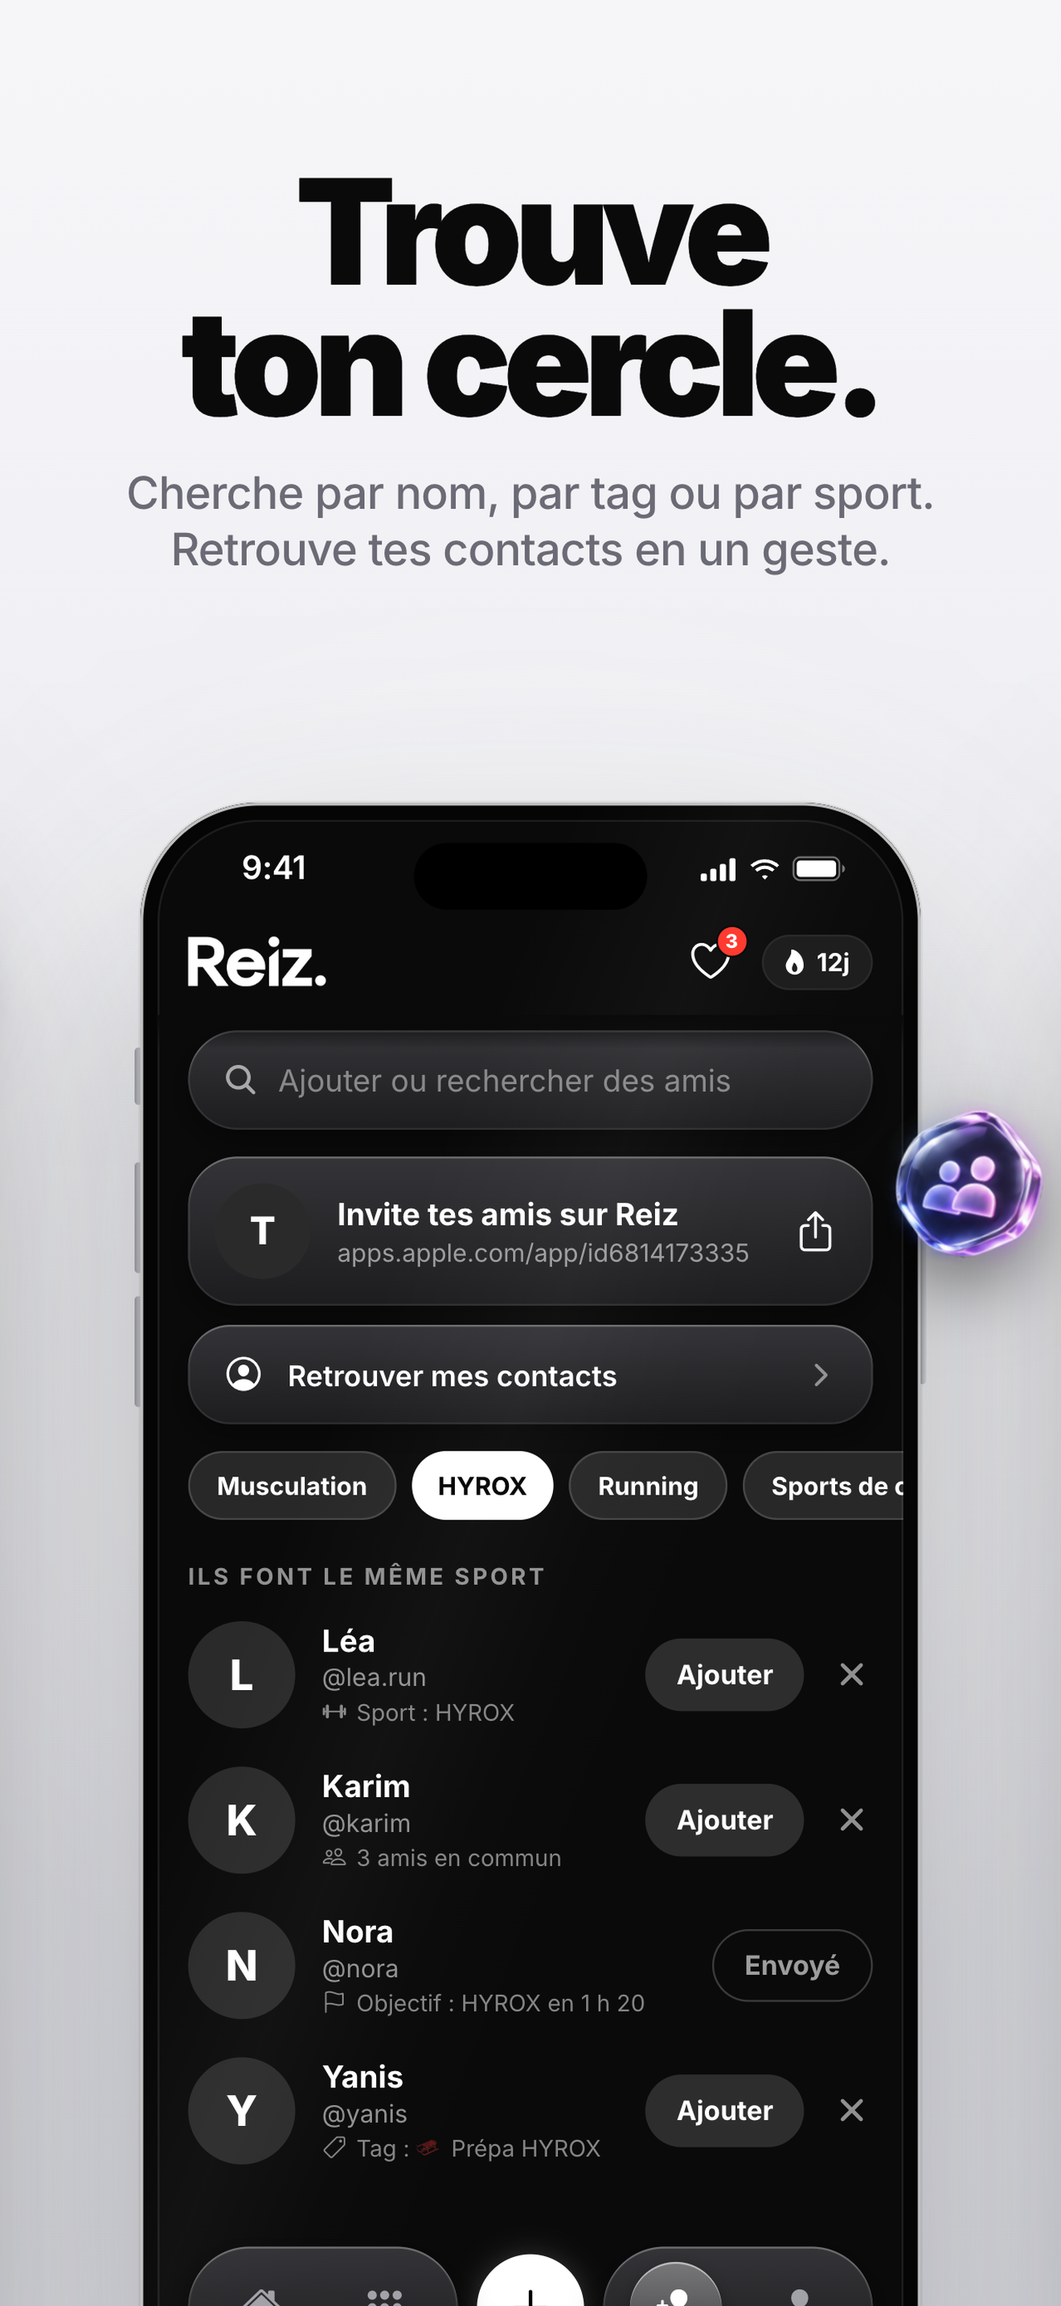
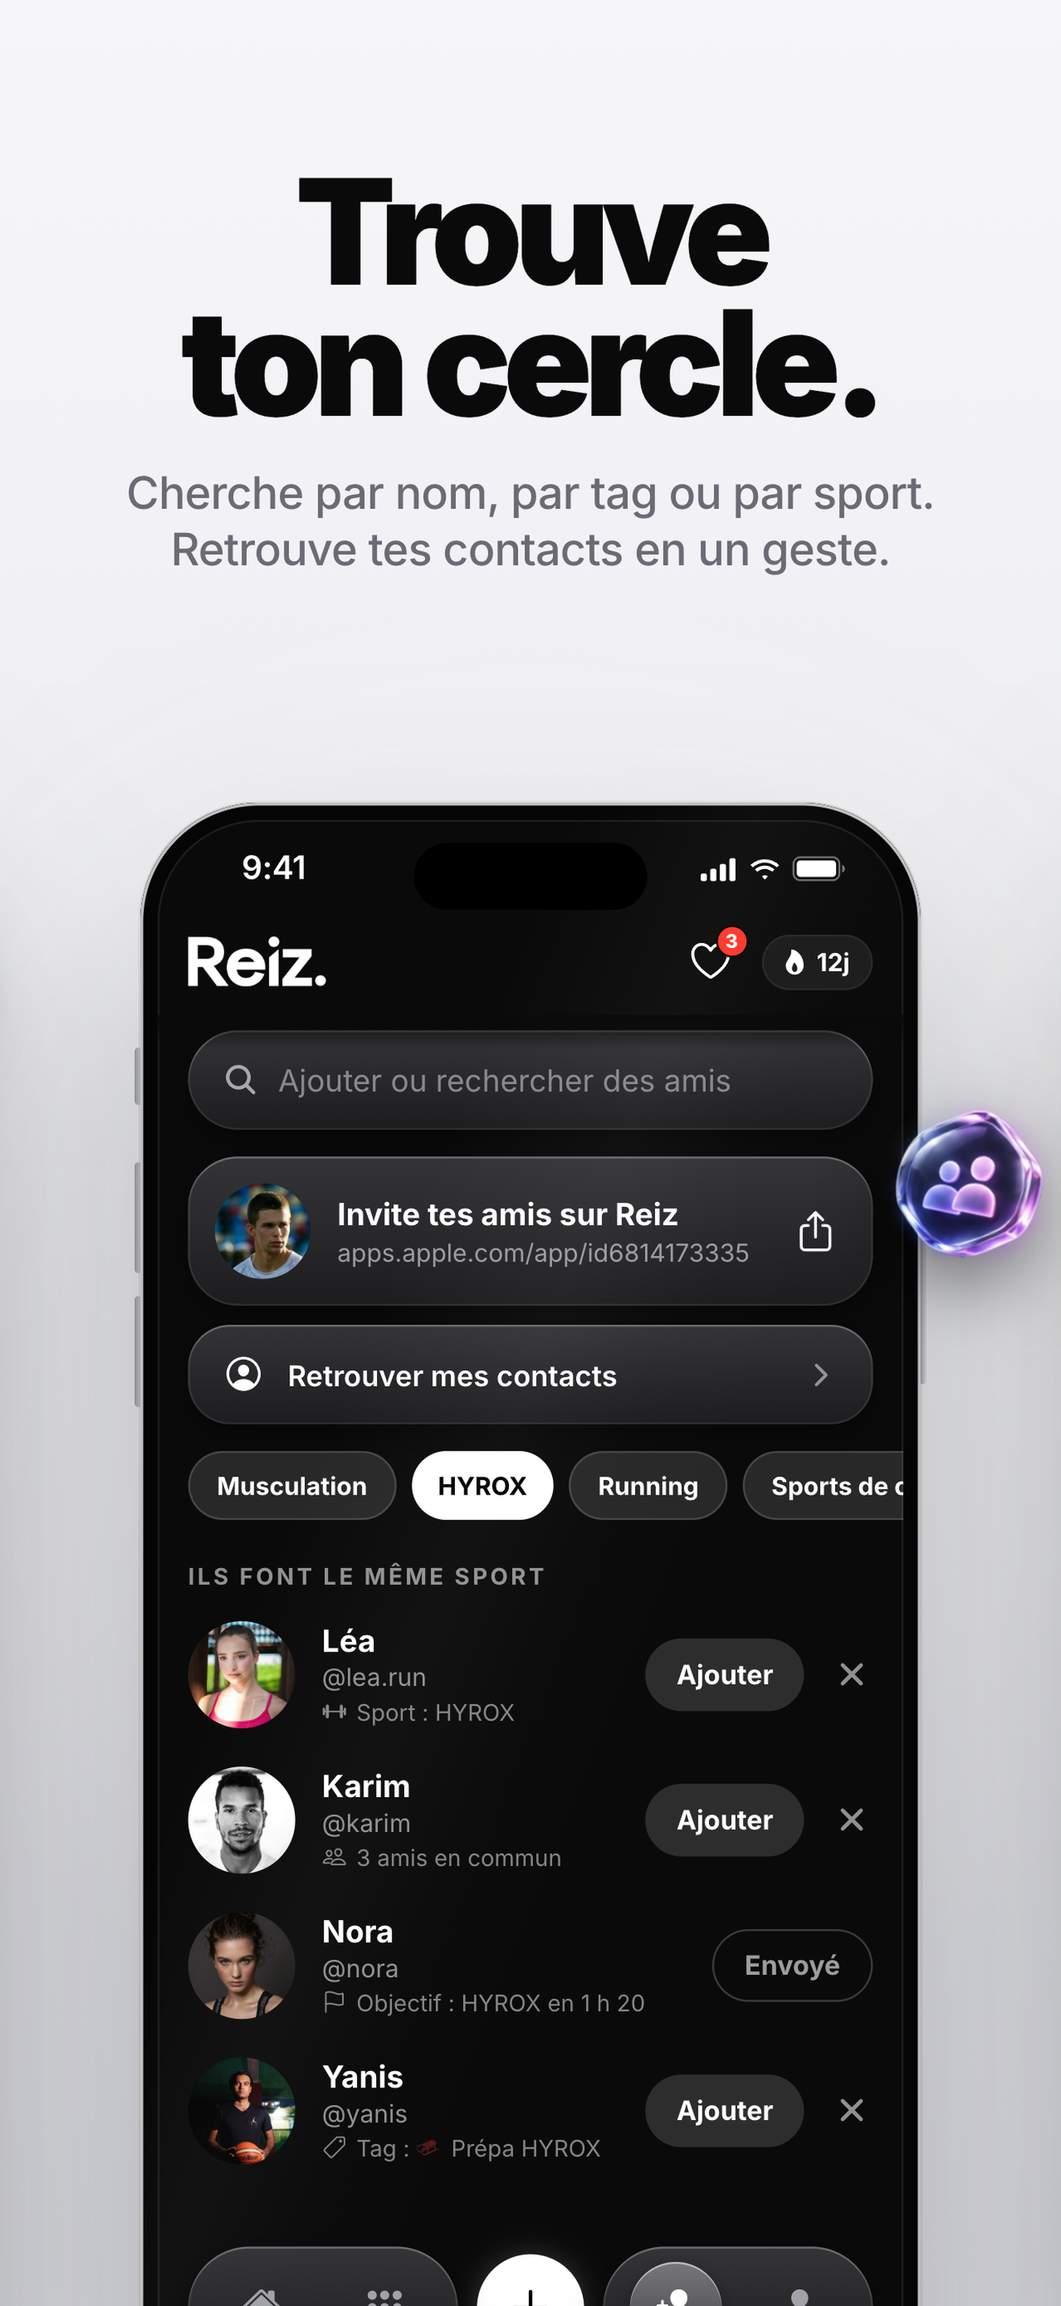
Visuels App Store v3 : photos de profil et photos HYROX/running Unsplash

Changed region(s): [[0.1553, 0.6827, 0.2795, 0.962], [0.1864, 0.4965, 0.3106, 0.5586]]

diff --git a/design/store/bande3.html b/design/store/bande3.html
@@ -317,16 +317,19 @@ const navBar = active => {
   const icons = arr => arr.map(k => `<span class="ion${k === active ? ' on' : ''}">${String.fromCodePoint(GL[k])}</span>`).join('');
   return `<div class="nav"><div class="npill glass">${bub(L)}${icons(L)}</div><div class="nplus">${I('add')}</div><div class="npill glass">${bub(R)}${icons(R)}</div></div>`;
 };
-const av = (ini, extra = '') => `<div class="av" style="${extra}">${ini}</div>`;
+const PF = { N: 'nathan', S: 'sarah', H: 'hugo', T: 'theo', I: 'ines', M: 'mael', L: 'lea', K: 'karim', No: 'nora', Y: 'yanis' };
+// Photos de profil Unsplash (licence libre), voir assets/unsplash/CREDITS.md
+const pic = k => PF[k] ? `background:url(assets/unsplash/av-${PF[k]}.jpg) center/cover;color:transparent;` : '';
+const av = (ini, extra = '') => `<div class="av" style="${pic(ini)}${extra}">${ini}</div>`;
 
 /* ---------- Écrans ---------- */
 function feed(o) {
   const faces = o.faces || [];
-  const stack = faces.length ? `<div class="stack">${faces.slice(0, 4).map(([i, e], k) => `<div class="si" style="margin-left:${k ? -12 : 0}px;z-index:${4 - k}"><div class="sa">${i}</div><span class="se">${e}</span></div>`).join('')}${o.more ? `<div class="si" style="margin-left:-12px"><div class="sa more">+${o.more}</div></div>` : ''}</div>` : '';
+  const stack = faces.length ? `<div class="stack">${faces.slice(0, 4).map(([i, e], k) => `<div class="si" style="margin-left:${k ? -12 : 0}px;z-index:${4 - k}"><div class="sa" style="${pic(i)}">${i}</div><span class="se">${e}</span></div>`).join('')}${o.more ? `<div class="si" style="margin-left:-12px"><div class="sa more">+${o.more}</div></div>` : ''}</div>` : '';
   const bottom = o.quick
     ? `<div class="quick">${['🔥', '💪', '👏', '😮', '😂', '❤'].map(e => `<span class="qi${e === o.qon ? ' on' : ''}">${e}</span>`).join('')}<span class="qi">${I('add')}</span></div>`
     : `<div class="bot">${stack}<div style="flex:1"></div><div class="react">${I('happy')}</div></div>`;
-  const duo = o.duo ? `<div class="duorow${o.duo.ok ? ' ok' : ''}"><span style="display:flex">${o.duo.ini.map(i => `<span class="da">${i}</span>`).join('')}</span><span class="tx">${o.duo.ok ? '<b>✓ Duo validé</b> avec ' : 'avec '}<b>${o.duo.names}</b></span></div>` : '';
+  const duo = o.duo ? `<div class="duorow${o.duo.ok ? ' ok' : ''}"><span style="display:flex">${o.duo.ini.map(i => `<span class="da" style="${pic(i)}">${i}</span>`).join('')}</span><span class="tx">${o.duo.ok ? '<b>✓ Duo validé</b> avec ' : 'avec '}<b>${o.duo.names}</b></span></div>` : '';
   return `<div class="scr">${statusBar()}${header()}<div class="body"><div class="fade"></div>
   <div class="fcard" style="margin-top:${o.top ?? 8}px">
     <div class="brh">${av(o.ini)}<div class="meta"><div class="n">${o.name}</div><div class="sub">${o.sub}</div>${duo}</div><span class="ion dots">${String.fromCodePoint(GL.dots)}</span></div>
@@ -372,7 +375,7 @@ function post(photo = PH.gym, pos = '50% 62%') {
      <div class="poc"><div class="e">🏃</div><div class="t">Courir 50 km</div></div>
     </div>
     <div class="pl m">PROGRESSION</div>
-    <div class="pw2"><div class="pbtn">${I('remove')}</div><div class="pc"><div class="big">190<span class="u"> kg</span></div><div class="val">sur 200 kg</div><div class="sl"><div class="tr"><div class="fi" style="width:95%"></div></div><div class="th" style="left:calc(95% - 22px * .95)"></div></div></div><div class="pbtn">${I('add')}</div></div>
+    <div class="pw2"><div class="pbtn">${I('remove')}</div><div class="pc"><div class="big">11<span class="u"> séances</span></div><div class="val">sur 16 séances</div><div class="sl"><div class="tr"><div class="fi" style="width:69%"></div></div><div class="th" style="left:calc(69% - 22px * .69)"></div></div></div><div class="pbtn">${I('add')}</div></div>
    </div></div>
   <div class="cta"><div class="b">Publier</div></div></div>`;
 }
@@ -501,10 +504,12 @@ function activityScreen() {
   </div></div>`;
 }
 
+const U = { sled: 'assets/unsplash/post-sled.jpg', fentes: 'assets/unsplash/post-fentes.jpg', runF: 'assets/unsplash/post-run-femme.jpg', runH: 'assets/unsplash/post-run-homme.jpg', bgSunset: 'assets/unsplash/bg-run-sunset.jpg', bgBlue: 'assets/unsplash/bg-run-blue.jpg' };
+const bgCover = (f, pos) => `<div style="position:absolute;inset:0;background:url(${f}) ${pos}/cover"></div>`;
 /* ---------- v3 (22/10/2026) : écrans de la 1.0.1 (fond noir, verre, accueil par discipline, Amis = découverte) ---------- */
 Object.assign(GL, { fwd: 0xf133, search: 0xf55f, share: 0xf572, barbell: 0xf173, play: 0xf4c6, cut: 0xf29c, pcircle: 0xf4aa, flag: 0xf311, tag: 0xf4eb, link: 0xf3b8, wa: 0xf425, bubble: 0xf211, flash: 0xf316 });
 const glassBtn = (k, x, y) => `<div class="clear" style="position:absolute;left:${x}px;top:${y}px;width:44px;height:44px;border-radius:22px;display:flex;align-items:center;justify-content:center;font-size:22px;z-index:20">${I(k)}</div>`;
-const ava = (ini, s, extra = '') => `<div style="width:${s}px;height:${s}px;border-radius:50%;background:#2a2a2a;display:flex;align-items:center;justify-content:center;font:800 ${Math.round(s * .4)}px/1 Inter;flex:none;${extra}">${ini}</div>`;
+const ava = (ini, s, extra = '') => `<div style="width:${s}px;height:${s}px;border-radius:50%;background:#2a2a2a;display:flex;align-items:center;justify-content:center;font:800 ${Math.round(s * .4)}px/1 Inter;flex:none;${extra};${pic(ini)}">${ini}</div>`;
 
 function sportPick() {
   return `<div class="scr" style="background:#050505">
@@ -532,17 +537,17 @@ function postVideo(photo, pos) {
     <div class="pl">OBJECTIF</div>
     <div class="ocs">
      <div class="poc glass" style="border:0"><div class="e">💪</div><div class="t">Aller à la salle 4 fois</div></div>
-     <div class="poc on" style="background:rgba(255,255,255,.14)"><div class="e">🎯</div><div class="t">Deadlift à 200 kg</div></div>
+     <div class="poc on" style="background:rgba(255,255,255,.14)"><div class="e">🛷</div><div class="t">Préparer un HYROX</div></div>
      <div class="poc glass" style="border:0"><div class="e">🏃</div><div class="t">Courir 50 km</div></div>
     </div>
     <div class="pl m">PROGRESSION</div>
-    <div class="pw2 glass"><div class="pbtn" style="background:rgba(255,255,255,.12)">${I('remove')}</div><div class="pc"><div class="big">190<span class="u"> kg</span></div><div class="val">sur 200 kg</div><div class="sl"><div class="tr"><div class="fi" style="width:95%"></div></div><div class="th" style="left:calc(95% - 22px * .95)"></div></div></div><div class="pbtn" style="background:rgba(255,255,255,.12)">${I('add')}</div></div>
+    <div class="pw2 glass"><div class="pbtn" style="background:rgba(255,255,255,.12)">${I('remove')}</div><div class="pc"><div class="big">11<span class="u"> séances</span></div><div class="val">sur 16 séances</div><div class="sl"><div class="tr"><div class="fi" style="width:69%"></div></div><div class="th" style="left:calc(69% - 22px * .69)"></div></div></div><div class="pbtn" style="background:rgba(255,255,255,.12)">${I('add')}</div></div>
    </div></div>
   <div class="cta" style="background:transparent"><div class="b">Publier</div></div></div>`;
 }
 
 const trimChip = () => {
-  const fr = [G.p1, G.p1, G.p2, G.p2, G.p4, G.p4, G.p5, G.p5].map((f, i) => `<div style="flex:1;background:url(${f}) ${i % 2 ? '30%' : '70%'} 50%/cover"></div>`).join('');
+  const fr = [20, 30, 40, 50, 55, 60, 70, 80].map(x => `<div style="flex:1;background:url(${U.fentes}) ${x}% ${x}%/400%"></div>`).join('');
   return `<div class="fl" style="border-radius:26px;padding:14px 14px 16px;width:330px">
    <div style="display:flex;justify-content:space-between;align-items:center;font:700 14px/17px Inter;margin-bottom:12px"><span style="display:flex;gap:7px;align-items:center"><span class="ion" style="font-size:16px">${String.fromCodePoint(GL.cut)}</span>Couper la vidéo</span><span style="color:rgba(255,255,255,.6);font-weight:600">12 s</span></div>
    <div style="position:relative;height:58px;border-radius:12px;overflow:hidden;display:flex">${fr}
@@ -571,8 +576,8 @@ function activityV3() {
    ${card(`<div style="display:flex;align-items:center;gap:12px;padding:12px 14px">${ava('H', 38)}<div style="flex:1"><div style="font:700 15px/18px Inter">Duel contre Hugo</div><div style="font:400 12px/15px Inter;color:rgba(255,255,255,.6);margin-top:1px">Tu mènes 4 à 3, 4 jours restants</div></div><span style="font-size:18px">⚔</span></div>`)}
    ${card(`<div style="display:flex;align-items:center;gap:12px;padding:12px 14px"><div style="width:38px;height:38px;border-radius:19px;background:rgba(255,255,255,.14);display:flex;align-items:center;justify-content:center;font-size:17px">⚔</div><div style="flex:1"><div style="font:700 15px/18px Inter">Défier un ami</div><div style="font:400 12px/15px Inter;color:rgba(255,255,255,.6);margin-top:1px">Un duel d'une semaine, le plus régulier gagne</div></div><span class="ion" style="font-size:18px;color:rgba(255,255,255,.5)">${String.fromCodePoint(GL.chev)}</span></div>`)}
    <div style="font:700 11px/13px Inter;letter-spacing:1.5px;color:rgba(255,255,255,.55);margin:18px 0 2px">AUJOURD'HUI</div>
-   ${row('S', 'camera', '<b>Sarah</b> a posté', '2 min', '🏋 Squat à 100 kg', G.p2)}
-   ${row('H', 'heart', '<b>Hugo, Inès</b> et 2 autres ont réagi 🔥', '1 h', 'À ton post 🎯 Deadlift à 200 kg', G.p1)}
+   ${row('S', 'camera', '<b>Sarah</b> a posté', '2 min', '🏃 Courir 50 km', U.runF)}
+   ${row('H', 'heart', '<b>Hugo, Inès</b> et 2 autres ont réagi 🔥', '1 h', 'À ton post 🛷 Préparer un HYROX', U.sled)}
   </div></div>`;
 }
 
@@ -589,7 +594,7 @@ function friendsScreen() {
    <div style="padding:0 16px;margin-top:22px"><div style="font:700 12px/15px Inter;letter-spacing:1.5px;color:rgba(255,255,255,.55);margin-bottom:6px">ILS FONT LE MÊME SPORT</div>
     ${drow('L', 'Léa', 'lea.run', 'barbell', 'Sport : HYROX')}
     ${drow('K', 'Karim', 'karim', 'people', '3 amis en commun')}
-    ${drow('N', 'Nora', 'nora', 'flag', 'Objectif : HYROX en 1 h 20', true)}
+    ${drow('No', 'Nora', 'nora', 'flag', 'Objectif : HYROX en 1 h 20', true)}
     ${drow('Y', 'Yanis', 'yanis', 'tag', 'Tag : 🛷 Prépa HYROX')}
    </div>
   </div>${navBar('padd')}</div>`;
@@ -605,15 +610,15 @@ function shareScreen() {
      <div style="position:relative;width:244px;height:244px;margin:20px auto 0"><img src="assets/qr-appstore.svg" style="width:244px;height:244px;display:block"><img src="assets/ecriture-reiz-blanc-trim.png" style="position:absolute;left:50%;top:50%;width:40px;transform:translate(-50%,-50%)"></div>
      <div style="font:600 12px/15px Inter;color:#8a8a8a;margin-top:16px;padding:0 20px">Scanne pour télécharger Reiz, puis ajoute @theo</div>
     </div>
-    <div style="position:absolute;left:110px;top:0;width:120px;height:120px;border-radius:60px;border:4px solid #fafafa;background:#2a2a2a;display:flex;align-items:center;justify-content:center;font:900 44px/1 Inter">T</div>
+    <div style="position:absolute;left:110px;top:0;width:120px;height:120px;border-radius:60px;border:4px solid #fafafa;background:#2a2a2a url(assets/unsplash/av-theo.jpg) center/cover"></div>
    </div>
    <div style="position:absolute;left:12px;right:12px;bottom:40px;display:flex;justify-content:space-evenly">${acts.map(([l, k, bg]) => `<div style="width:76px;text-align:center"><div style="width:62px;height:62px;border-radius:31px;background:${bg};margin:0 auto;display:flex;align-items:center;justify-content:center;font-size:26px">${I(k)}</div><div style="font:600 13px/16px Inter;margin-top:8px">${l}</div></div>`).join('')}</div>
   </div>`;
 }
 
 const DARK = 'background:radial-gradient(70% 40% at 50% 62%,#14141a 0%,#050506 70%)';
-const sFeed1 = feed({ ini: 'N', name: 'Nathan', sub: '🚴 Cardio 5 fois, il y a 12 min', photo: G.p3, pos: '50% 50%', pct: 80, label: '4 / 5 séances', cap: 'Air bike, 20 minutes. J\'ai failli abandonner.', cm: 'Voir les 7 commentaires', faces: [['S', '🔥'], ['I', '💪'], ['H', '👏'], ['M', '😮']], more: 3, wide: true });
-const sReact = feed({ ini: 'S', name: 'Sarah', sub: '🏋 Squat à 100 kg, il y a 8 min', photo: G.p2, pos: '50% 40%', pct: 95, label: '95 / 100 kg', cap: 'Ça monte. Plus que 5 kg.', cm: 'Voir les 12 commentaires', quick: true, qon: '💪' });
+const sFeed1 = feed({ ini: 'N', name: 'Nathan', sub: '🛷 Préparer un HYROX, il y a 12 min', photo: U.sled, pos: '50% 45%', pct: 69, label: '11 / 16 séances', cap: 'Sled push, 4 x 25 m. Les jambes ont lâché au dernier.', cm: 'Voir les 7 commentaires', faces: [['S', '🔥'], ['I', '💪'], ['H', '👏'], ['M', '😮']], more: 3, wide: true });
+const sReact = feed({ ini: 'S', name: 'Sarah', sub: '🏃 Courir 50 km, il y a 8 min', photo: U.runF, pos: '50% 40%', pct: 78, label: '39 / 50 km', cap: '10 km ce matin. Plus que 11.', cm: 'Voir les 12 commentaires', quick: true, qon: '💪' });
 const sDuo = feed({ ini: 'H', name: 'Hugo', sub: '💪 Aller à la salle 4 fois, il y a 9 min', photo: G.p4, pos: '50% 60%', pct: 75, label: '3 / 4 séances', duo: { ini: ['T'], names: 'Théo' }, duoBtn: '🤝 Valide ton duo avec Hugo : encore 51 min', faces: [['T', '💪'], ['S', '🔥']], noAdd: true });
 
 /* 1. Sombre, photo : le fil */
@@ -622,7 +627,7 @@ const P1 = panel(0, 'background:#050506', bgImg('assets/bg-p1.jpg') + shade(.62,
  + `<div class="eyebrow" style="left:98px;top:330px">Le réseau social des sportifs.</div>`
  + `<div class="hl" style="left:90px;top:430px;font-size:198px;transform:skewX(-6deg);transform-origin:0 100%"><span>Ton</span><br><span>cercle</span><br><span>te regarde.</span></div>`
  + phone(sFeed1, 690, 2230, 980, 5, 'dark', 5)
- + big(notif('Sarah a réagi 🔥', 'Sur 🚴 Cardio 5 fois', 0, 0, 296), 56, 1600, 2.3, 13)
+ + big(notif('Sarah a réagi 🔥', 'Sur 🛷 Préparer un HYROX', 0, 0, 296), 56, 1600, 2.3, 13)
  + sticker('en-feu', 36, 1010, 330, -14)
  + sticker('semaine-parfaite', 1056, 1150, 430, 10, 15);
 
@@ -648,7 +653,7 @@ const P4 = panel(3, 'background:#050506', bgImg('assets/bg-p3.jpg') + shade(.45,
  + T('Poste', X(3) + 96, 190, 310)
  + T('ta séance.', X(3) + 104, 480, 150, 'font-weight:400;letter-spacing:-.04em')
  + S('Une photo ou une vidéo. Coupe-la en deux gestes, ton cercle voit tout.', X(3) + 104, 670, 960, 'rgba(255,255,255,.8)')
- + `<div style="position:absolute;left:${X(3) + 84}px;top:1120px;width:1116px;height:2100px;border-radius:120px;overflow:hidden;z-index:6;background:linear-gradient(180deg,rgba(255,255,255,.22),rgba(255,255,255,.07));border:2px solid rgba(255,255,255,.38);box-shadow:0 60px 140px rgba(0,0,0,.45)">${phone(postVideo(G.p1, '50% 45%'), 558, 1060, 860, 0, 'dark', 5)}</div>`
+ + `<div style="position:absolute;left:${X(3) + 84}px;top:1120px;width:1116px;height:2100px;border-radius:120px;overflow:hidden;z-index:6;background:linear-gradient(180deg,rgba(255,255,255,.22),rgba(255,255,255,.07));border:2px solid rgba(255,255,255,.38);box-shadow:0 60px 140px rgba(0,0,0,.45)">${phone(postVideo(U.fentes, '50% 35%'), 558, 1060, 860, 0, 'dark', 5)}</div>`
  + big(trimChip(), X(3) + 40, 2160, 2.25, 13);
 
 /* 5. Clair : réactions, commentaires et GIF */
@@ -656,7 +661,7 @@ const P5 = panel(4, LIGHT, lightGlow)
  + T('Ils réagissent.<br>Tu continues.', X(4), 200, 150, 'width:1284px;text-align:center;color:#0a0a0a')
  + S('Emojis, commentaires et GIF. Un fil rien que pour tes proches.', X(4) + 150, 510, 984, '#6b6b76', 'center')
  + phone(sReact, X(4) + 642, 1960, 900, 0, 'dark', 5)
- + big(`<div class="fl cbub" style="width:236px"><div style="font:700 12px/15px Inter;color:#9a9aa2;margin-bottom:2px">Hugo</div>Allez, plus que 5 kg 🔥</div>`, X(4) + 30, 1560, 2.2, 13)
+ + big(`<div class="fl cbub" style="width:236px"><div style="font:700 12px/15px Inter;color:#9a9aa2;margin-bottom:2px">Hugo</div>Allez, plus que 11 km 🔥</div>`, X(4) + 30, 1560, 2.2, 13)
  + big(gifBubble('Inès', G.p6), X(4) + 760, 1880, 2.1, 13)
  + emo('🔥', X(4) - 70, 1180, 250, -14) + emo('💪', X(4) + 1010, 1060, 240, 16);
 
@@ -669,7 +674,7 @@ const P6 = panel(5, DARK, '')
  + big(pill('<span>✓ Duo validé</span>', 0, 0), X(5) + 880, 2330, 2.2, 13);
 
 /* 7. Verre sur photo : activité, duel et relance */
-const P7 = panel(6, 'background:#050506', bgImg('assets/bg-p8.jpg') + shade(.5, .08, .6))
+const P7 = panel(6, 'background:#050506', bgCover(U.bgSunset, '46% 50%') + shade(.5, .08, .6))
  + T('Défie', X(6) + 96, 190, 310)
  + T('un ami.', X(6) + 104, 480, 150, 'font-weight:400;letter-spacing:-.04em')
  + S('Un duel d\'une semaine, et une relance pour ceux qui décrochent.', X(6) + 104, 670, 960, 'rgba(255,255,255,.8)')
@@ -693,7 +698,7 @@ const P9 = panel(8, 'background:#050506', bgImg('assets/bg-p6.jpg') + shade(.5, 
  + sticker('inarretable', X(8) + 30, 1120, 360, -12) + sticker('en-duo', X(8) + 940, 1020, 330, 12) + sticker('acharne', X(8) + 960, 2250, 300, -8);
 
 /* 10. Sombre, photo : invite ton cercle (QR code) */
-const P10 = panel(9, 'background:#050506', bgImg('assets/bg-gym.jpg') + shade(.6, .2, .85))
+const P10 = panel(9, 'background:#050506', bgCover(U.bgBlue, '38% 50%') + shade(.45, .15, .8))
  + `<img src="assets/ecriture-reiz-blanc-trim.png" style="position:absolute;left:${X(9) + 96}px;top:128px;width:230px;z-index:6">`
  + `<div class="hl" style="left:${X(9) + 90}px;top:300px;font-size:206px;transform:skewX(-6deg);transform-origin:0 100%"><span>Rejoins</span><br><span>ton cercle.</span></div>`
  + S('Ton QR code invite tes amis en une seconde.', X(9) + 98, 700, 900, 'rgba(255,255,255,.82)')

diff --git a/design/store/assets/unsplash/CREDITS.md b/design/store/assets/unsplash/CREDITS.md
@@ -1,0 +1,20 @@
+# Photos Unsplash des visuels App Store v3 (licence Unsplash, usage libre, commercial compris)
+
+Prénoms fictifs. Les photos ne montrent aucun logo de marque mis en avant.
+
+- av-theo.jpg : https://images.unsplash.com/photo-1780250537990-997ef0f6b8e5
+- av-sarah.jpg : https://images.unsplash.com/photo-1692197174597-1d85555c9b33
+- av-hugo.jpg : https://images.unsplash.com/photo-1606335544053-c43609e6155d
+- av-ines.jpg : https://images.unsplash.com/photo-1683848644087-c3cb69b77d4f
+- av-nathan.jpg : https://images.unsplash.com/photo-1624461087264-3a68c1c60d40
+- av-mael.jpg : https://images.unsplash.com/photo-1778110827897-6dc6b6f7c988
+- av-lea.jpg : https://images.unsplash.com/photo-1759476530066-94bee6a30c40
+- av-karim.jpg : https://images.unsplash.com/photo-1516224498413-84ecf3a1e7fd
+- av-nora.jpg : https://images.unsplash.com/photo-1697355506356-f38a64c954c3
+- av-yanis.jpg : https://images.unsplash.com/photo-1763893296686-208b12fed9b8
+- post-sled.jpg : https://images.unsplash.com/photo-1739283180408-e64cfd394c5e
+- post-fentes.jpg : https://images.unsplash.com/photo-1780398633323-6a110a014fd0
+- post-run-femme.jpg : https://images.unsplash.com/photo-1480179087180-d9f0ec044897
+- post-run-homme.jpg : https://images.unsplash.com/photo-1614660762109-bb0157fcbd7d
+- bg-run-sunset.jpg : https://images.unsplash.com/photo-1581889470536-467bdbe30cd0
+- bg-run-blue.jpg : https://images.unsplash.com/photo-1552674605-db6ffd4facb5
